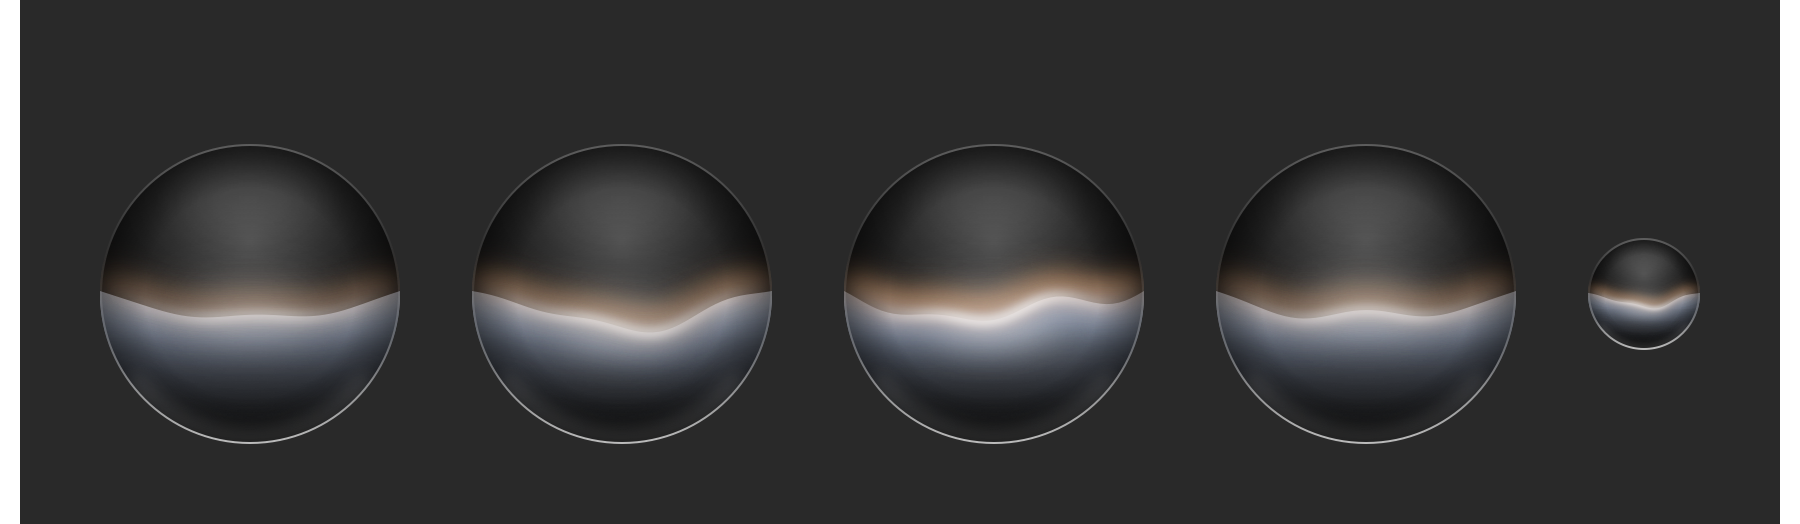
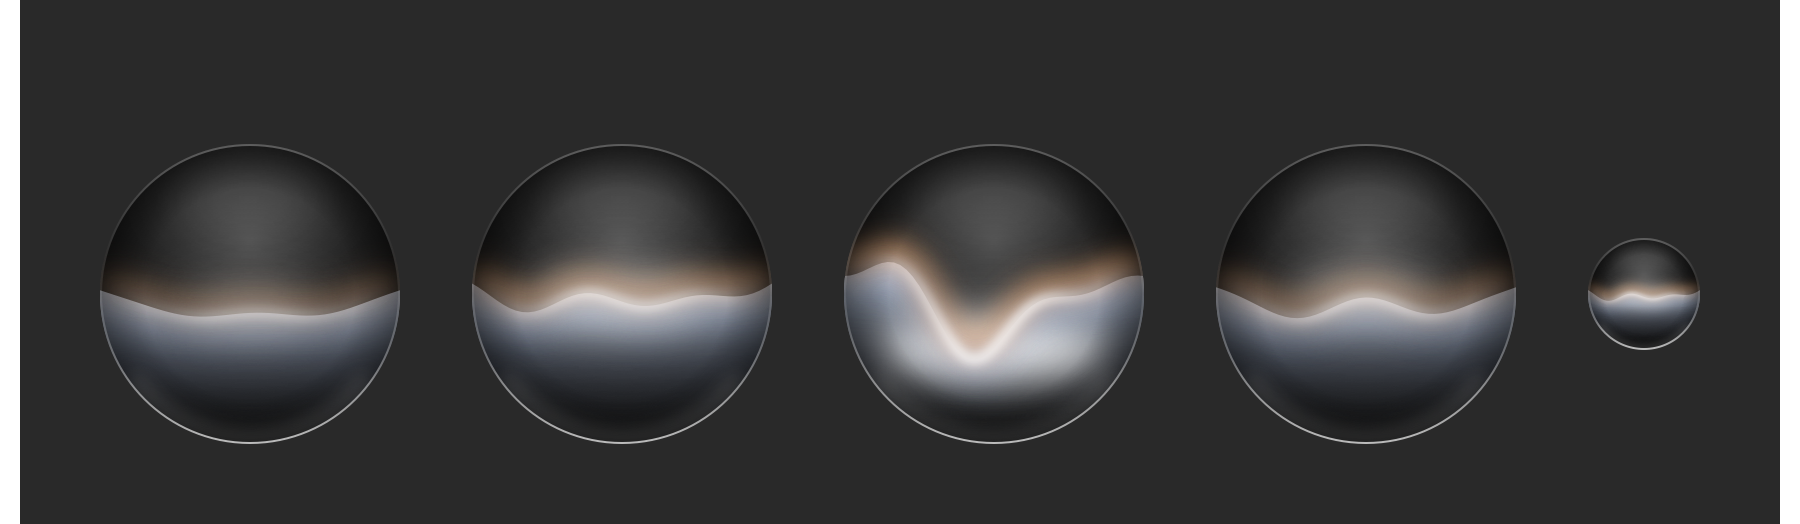
Orb reacts strongly to the voice; stop ggml's 5 ms Metal polling loop

diff --git a/Sources/Murmur/Orb.swift b/Sources/Murmur/Orb.swift
@@ -31,12 +31,13 @@ struct OrbView: View {
 
                 // The surface line. It sags slightly at the centre like liquid seen through a lens.
                 let energy = thinking ? 0.25 : level
-                let amplitude = r * (0.035 + 0.16 * energy)
-                let baseY = centre.y - r * 0.02
+                let amplitude = r * (0.03 + 0.42 * energy)
+                // Louder speech lifts the liquid as well as rippling it.
+                let baseY = centre.y - r * 0.02 - r * 0.10 * energy
                 func surfaceY(_ x: CGFloat) -> CGFloat {
                     let u = (x - rect.minX) / side                      // 0...1 across the sphere
                     let sag = sin(u * .pi) * r * 0.20
-                    let speed = thinking ? 1.2 : 3.2
+                    let speed = thinking ? 1.2 : 3.0 + 5.0 * Double(energy)
                     let wave = sin(Double(u) * 7.0 + time * speed) * 0.6 + sin(Double(u) * 13.0 - time * speed * 1.7) * 0.4
                     return baseY + sag + CGFloat(wave) * amplitude * sin(u * .pi)
                 }
@@ -61,12 +62,13 @@ struct OrbView: View {
                 // A bloom at the centre of the line, where the light is strongest.
                 inner.drawLayer { bloom in
                     bloom.addFilter(.blur(radius: r * 0.16))
-                    let spot = CGRect(x: centre.x - r * 0.42, y: surfaceY(centre.x) - r * 0.10, width: r * 0.84, height: r * 0.20)
-                    bloom.fill(Path(ellipseIn: spot), with: .color(.white.opacity(0.80 + 0.20 * energy)))
+                    let grow = 1 + 0.9 * energy
+                    let spot = CGRect(x: centre.x - r * 0.42 * grow, y: surfaceY(centre.x) - r * 0.10 * grow, width: r * 0.84 * grow, height: r * 0.20 * grow)
+                    bloom.fill(Path(ellipseIn: spot), with: .color(.white.opacity(0.45 + 0.55 * energy)))
                 }
 
                 // 3. The band of light, split into warm and cool edges like light through thick glass.
-                let glow = 0.75 + 0.25 * energy
+                let glow = 0.45 + 0.55 * energy
                 inner.drawLayer { warm in
                     warm.addFilter(.blur(radius: r * 0.10))
                     warm.translateBy(x: 0, y: -r * 0.05)

diff --git a/Sources/Murmur/Pill.swift b/Sources/Murmur/Pill.swift
@@ -84,11 +84,6 @@ struct PillView: View {
         .frame(maxWidth: .infinity, maxHeight: .infinity)
     }
 
-    /// The last few microphone readings averaged, so the ripple swells rather than jumps.
-    private var level: CGFloat {
-        let recent = model.levels.suffix(3)
-        return CGFloat(recent.reduce(0, +)) / CGFloat(max(recent.count, 1))
-    }
 
     @ViewBuilder private var content: some View {
         switch model.phase {
@@ -136,10 +131,15 @@ struct PillView: View {
     private func orb(thinking: Bool) -> some View {
         // The timeline exists only while the orb is on screen; hidden, nothing ticks.
         TimelineView(.animation(minimumInterval: 1.0 / 30, paused: reduceMotion)) { timeline in
-            OrbView(level: level, time: reduceMotion ? 0.8 : timeline.date.timeIntervalSinceReferenceDate, thinking: thinking)
+            OrbView(level: thinking ? 0 : model.voice,
+                    time: reduceMotion ? 0.8 : timeline.date.timeIntervalSinceReferenceDate, thinking: thinking)
         }
         .frame(width: 58, height: 58)
+        // The whole sphere swells with the voice, and its light spills out around it.
+        .scaleEffect(1 + (thinking ? 0 : 0.14 * model.voice))
+        .shadow(color: Color(red: 1.0, green: 0.72, blue: 0.45).opacity(thinking ? 0 : 0.55 * model.voice), radius: 10 + 10 * model.voice)
         .shadow(color: .black.opacity(0.45), radius: 12, y: 6)
+        .animation(.spring(response: 0.18, dampingFraction: 0.7), value: model.voice)
     }
 }
 

diff --git a/Sources/Murmur/Dictation.swift b/Sources/Murmur/Dictation.swift
@@ -18,14 +18,29 @@ final class PillModel: ObservableObject {
 
     static let barCount = 22
 
+    /// 0...1 loudness of the voice above the room's background, with a fast rise and a slower
+    /// fall so the orb jumps with each syllable and settles between words.
+    @Published var voice: CGFloat = 0
+    private var floor: Float = 1
+
     func push(_ level: Float) {
         var next = levels
         next.removeFirst()
         next.append(level)
         levels = next
+
+        // The quietest recent level is the room. It follows drops at once and creeps up slowly.
+        floor = min(floor + 0.003, level)
+        let above = CGFloat(max(0, level - floor - 0.04)) / 0.30
+        let target = min(1, above)
+        voice = target > voice ? voice + (target - voice) * 0.7 : voice * 0.80
     }
 
-    func resetLevels() { levels = Array(repeating: 0, count: PillModel.barCount) }
+    func resetLevels() {
+        levels = Array(repeating: 0, count: PillModel.barCount)
+        voice = 0
+        floor = 1
+    }
 }
 
 /// The dictation state machine: key events in, text at the cursor out.

diff --git a/Sources/Murmur/WhisperEngine.swift b/Sources/Murmur/WhisperEngine.swift
@@ -34,6 +34,10 @@ final class WhisperEngine: @unchecked Sendable {
     static var contextFloor = 512
 
     private init() {
+        // ggml's Metal backend otherwise starts a loop that wakes every 5 ms for the life of the
+        // process to keep GPU memory wired. Murmur unloads the model when idle, so it gains
+        // nothing from that; measured speed is the same without it.
+        setenv("GGML_METAL_NO_RESIDENCY", "1", 1)
         whisper_log_set({ _, _, _ in }, nil)
     }
 
